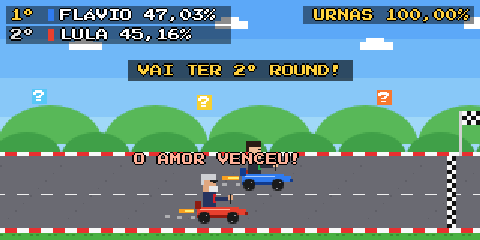
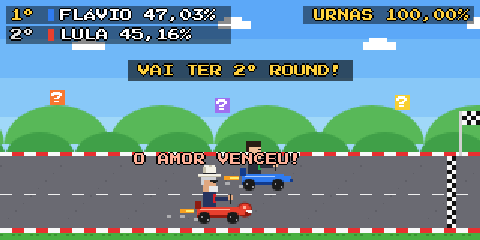
Document the hat and refresh screenshots

diff --git a/README.md b/README.md
@@ -75,7 +75,7 @@ Todos mostram o % de urnas apuradas na própria cena, então ele aparece também
 | Rasengan × Chidori | `naruto` | No Vale do Fim, os dois avançam sobre a água e se encontram; quem tem mais voto empurra o outro para trás. Esquerda faz Rasengan, direita faz Chidori. |
 | Pokémon | `pokemon` | Tela de batalha de RPG portátil, com caixas de HP (quem lidera tem HP cheio) e caixa de texto. Os nomes dos golpes vêm de `golpes` em `src/js/eleicao.js`. |
 | Street Fighter | `streetfighter` | Fliperama no calçadão de Copacabana, com barras de vida, selo KO e o % apurado no lugar do cronômetro. Os dois trocam bolas de fogo que explodem no ponto de choque; o nome de cada arremesso vem de `golpes`. |
-| Mortal Kombat | `mortalkombat` | Ponte de pedra sobre um poço de espinhos, barras de vida verdes com o nome dentro. Esquerda lança uma lança na corrente, direita lança bolas de gelo; o nome de cada arremesso vem de `golpes`. |
+| Mortal Kombat | `mortalkombat` | Ponte de pedra sobre um poço de espinhos, barras de vida verdes com o nome dentro. Quem tem chapéu (`visual.chapeu`) arremessa ele girando, como o Kung Lao; sem chapéu, a esquerda lança uma lança na corrente e a direita bolas de gelo. O nome de cada arremesso vem de `golpes`. |
 | Mario Kart | `mariokart` | Corrida: quem tem mais voto vai à frente, com classificação 1º/2º, urnas no lugar das voltas e bandeira de chegada quando a apuração termina. Os karts trocam cascos com os nomes de `golpes`. Aceita sprites próprios do piloto no kart (`spriteKart`, ver PROMPTS.md). |
 
 Para criar outro estilo, copie `src/js/estilos/kamehameha.js`, troque a chave em
@@ -214,7 +214,7 @@ senão, o 1º.
 
 Tudo o que é da eleição fica em `src/js/eleicao.js`: ano, endereço e códigos do TSE e os dois
 lutadores (`esquerda` e `direita`), cada um com número, nome de exibição, partido, cores, sprite
-e o visual do boneco desenhado pelo código. Os códigos novos saem de
+e o visual do boneco desenhado pelo código (incluindo um chapéu opcional, como o fedora do Lula). Os códigos novos saem de
 `https://resultados.tse.jus.br/oficial/comum/config/ele-c.json` (instruções no próprio arquivo).
 
 ## Ajustes
